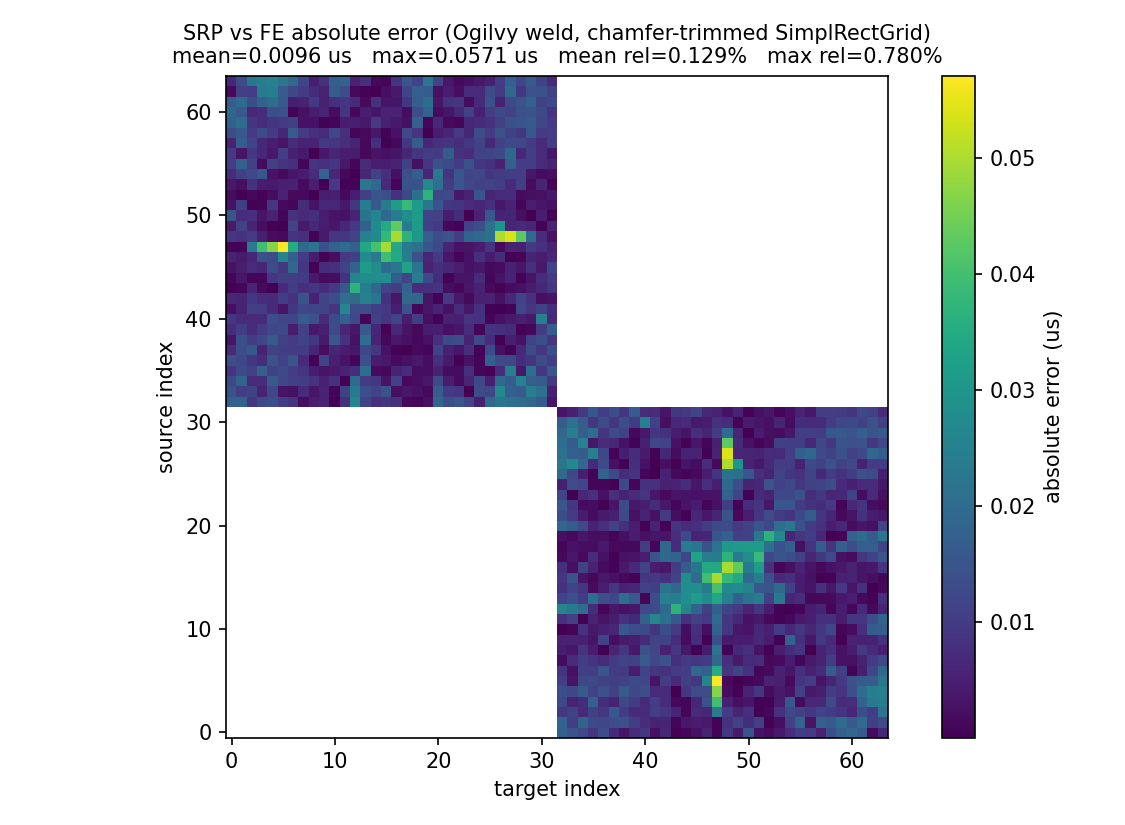
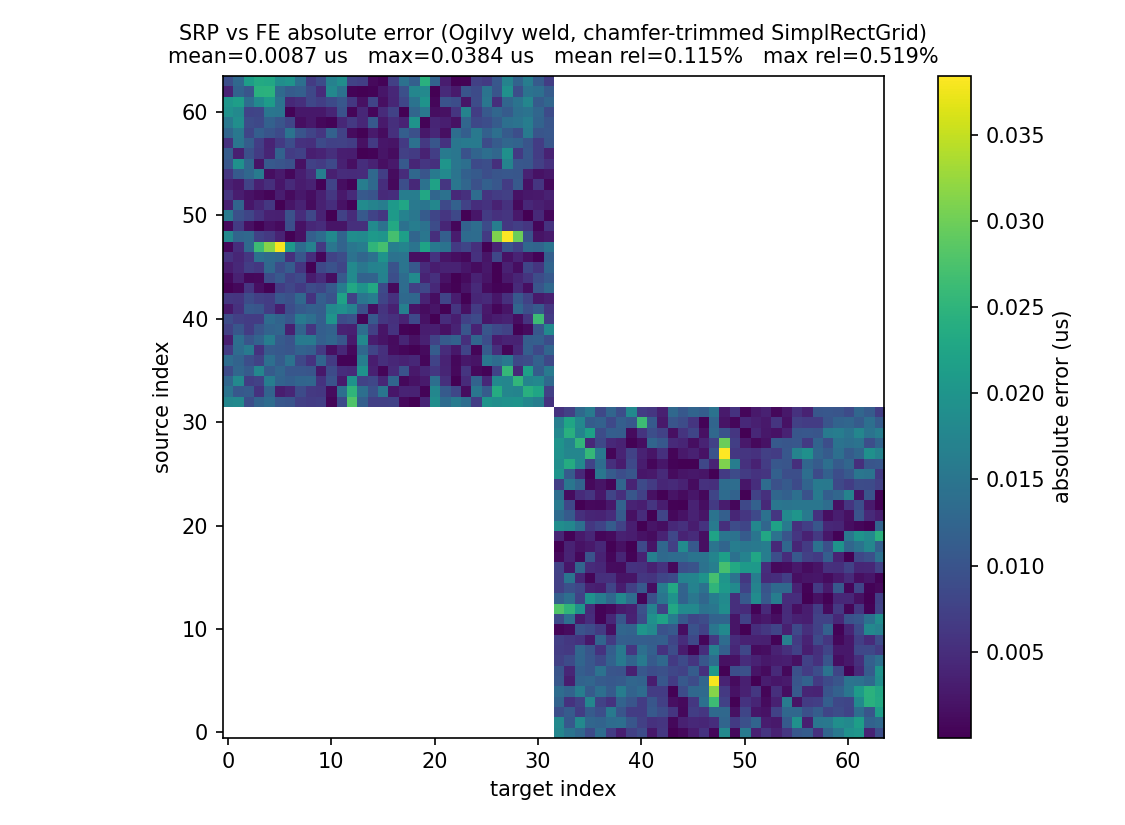
SimplRectGrid.add_points: dtype=bool for the per-side mask_receiver array
An empty mask_receiver list (no added point falls in a given side's parent-metal zone at all --
e.g. an array no wider than the weld's own opening, with interior points and no backwall targets,
as a direct TFM delay law needs) defaulted to float64, and ~ on that raised TypeError.

Changed region(s): [[0.1244, 0.0303, 0.9644, 0.9697], [0.3733, 0.9091, 0.4044, 0.9394], [0.28, 0.9091, 0.3111, 0.9394]]

diff --git a/srp_tracing/grid.py b/srp_tracing/grid.py
@@ -1571,14 +1571,17 @@ class SimplRectGrid(_ModeDependentMaterial):
         self.right_iso_zone = np.append(self.right_iso_zone,
                                        add_pos[take_pos])
 
-        mask_receiver = [self.left_iso_trans[ix] in self.target_idx
-                         for ix in range(len(self.left_iso_trans))]
+        # dtype=bool: an empty list defaults to float64, and ~ on that raises (no points of this
+        # side happened to land in the parent-metal zone -- e.g. an array no wider than the weld's
+        # own opening, with no backwall points added, as in a direct TFM delay law)
+        mask_receiver = np.array([self.left_iso_trans[ix] in self.target_idx
+                                  for ix in range(len(self.left_iso_trans))], dtype=bool)
         self.left_iso_targets = self.left_iso_trans[mask_receiver]
-        self.left_iso_sources = self.left_iso_trans[~np.array(mask_receiver)]
-        mask_receiver = [self.right_iso_trans[ix] in self.target_idx
-                         for ix in range(len(self.right_iso_trans))]
+        self.left_iso_sources = self.left_iso_trans[~mask_receiver]
+        mask_receiver = np.array([self.right_iso_trans[ix] in self.target_idx
+                                  for ix in range(len(self.right_iso_trans))], dtype=bool)
         self.right_iso_targets = self.right_iso_trans[mask_receiver]
-        self.right_iso_sources = self.right_iso_trans[~np.array(mask_receiver)]
+        self.right_iso_sources = self.right_iso_trans[~mask_receiver]
         self.left_iso_nodes = np.array(list(set(self.left_iso_zone)
                                             - set(self.left_iso_targets)))
         self.right_iso_nodes = np.array(list(set(self.right_iso_zone)

diff --git a/tests/test_grid_equivalence.py b/tests/test_grid_equivalence.py
@@ -113,3 +113,34 @@ def test_simpl_rect_grid_calculate_graph_mismatched_tie_link_raises(isotropic_ma
     g = _small_simpl_rect_grid(isotropic_material)
     with pytest.raises(ValueError):
         g.calculate_graph(tie_link=[[g.source_idx[0]], [g.target_idx[0], g.target_idx[0]]])
+
+
+def test_simpl_rect_grid_add_points_with_no_point_in_a_parent_zone(isotropic_material):
+    """
+    Regression: add_points's per-side mask_receiver list defaulted to float64 when empty (no added point at
+    all fell in that side's parent-metal zone -- e.g. every source and target sits inside the weld itself, as
+    a TFM delay law's array and region-of-interest points typically do), and ~ on a float array raised
+    TypeError. Both sides empty here: source and target are placed well inside the chamfer, away from both
+    flanks.
+    """
+    a, b, c = 10.0, 2.0, 14.0
+    dx = 2.0
+    nx, ny = 8, 6
+    cx, cy = 0.0, a/2
+    material_map = np.zeros((ny, nx), dtype=int)
+    material_map[:, nx//2 - 1: nx//2 + 1] = 1
+    property_map = np.zeros((ny, nx))
+    material = isotropic_material(vp=2.0)
+
+    g = grid.SimplRectGrid(nx=nx, ny=ny, cx=cx, cy=cy, pixel_size=dx, no_seeds=4)
+    g.assign_model(mode="orientations", property_map=property_map)
+    g.assign_materials(material_map, {0: material, 1: material})
+    g.trim_to_chamfer(a, b, c)
+    g.simplify_grid()
+
+    points = np.array([[-0.5, 3.0], [0.5, 6.0]])   # both inside the weld, neither iso zone
+    g.add_points(points=points, sources=np.array([0]), targets=np.array([1]))
+    g.calculate_graph()
+    s = solver.Solver(g)
+    s.solve(source_indices=g.source_idx)
+    assert np.isfinite(s.tfs[0, g.target_idx[0]])
